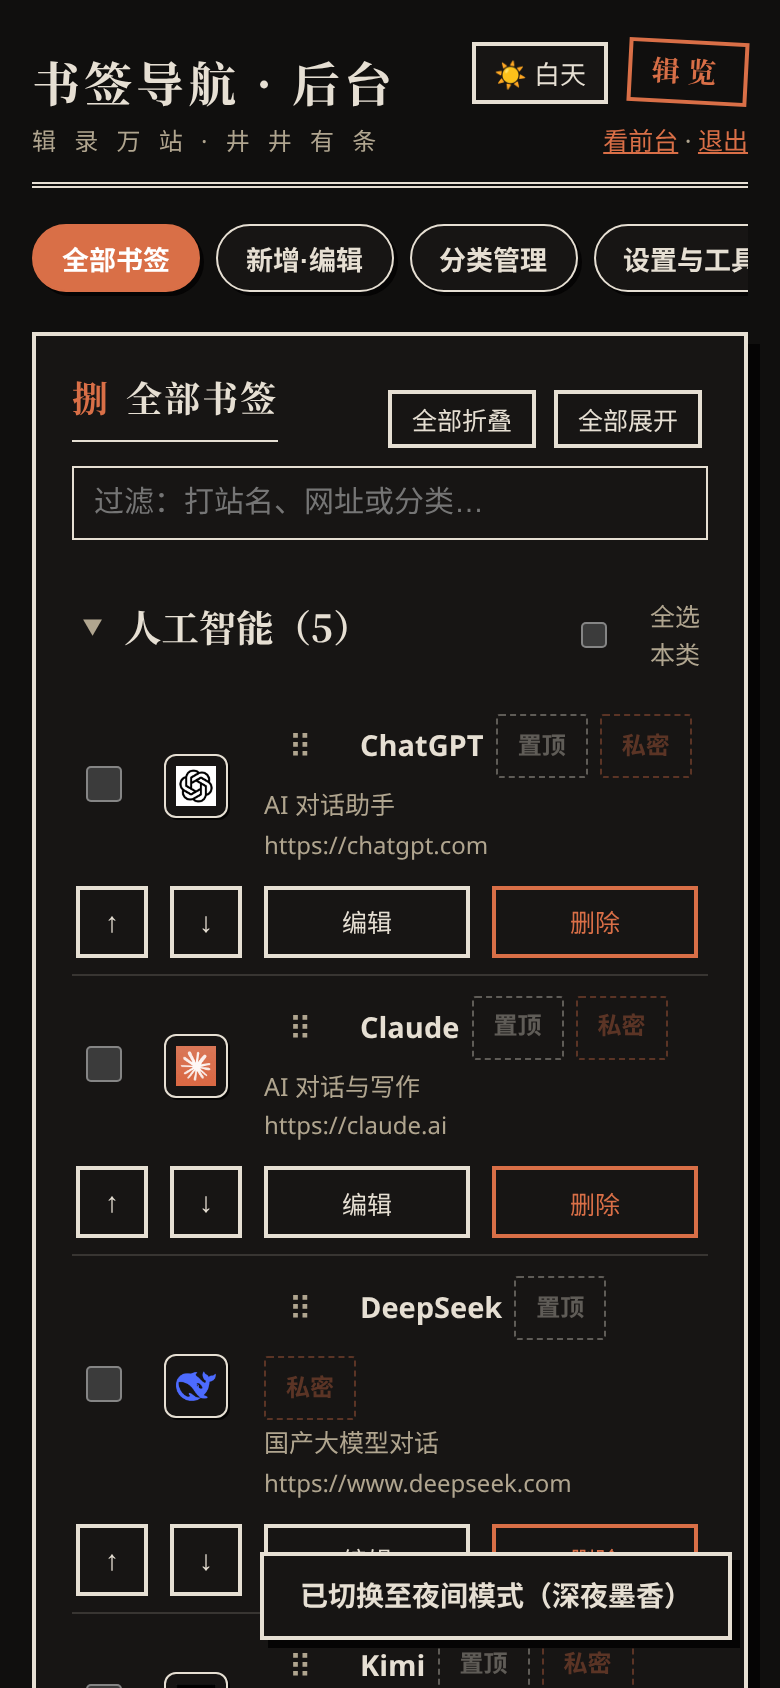
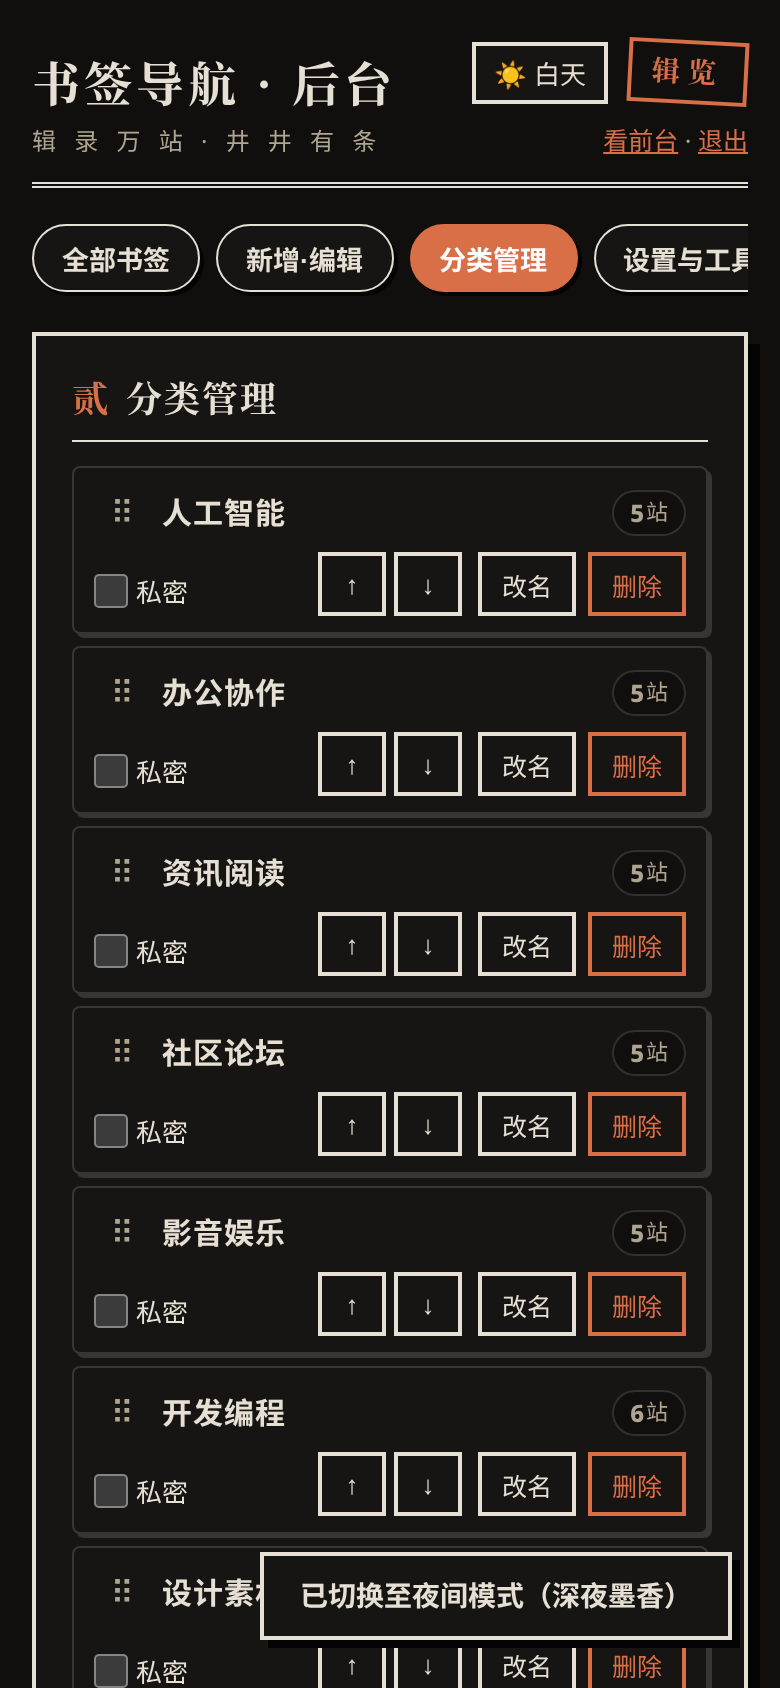
fix third review findings, refresh docs and mobile admin shots

diff --git a/public/admin-assets/admin.js b/public/admin-assets/admin.js
@@ -1094,6 +1094,8 @@ function renderSites() {
 
 // --- 批量操作浮动栏 ---
 function updateBulkBar(visibleSites = []) {
+  // 批量栏显隐会改变回顶按钮的避让高度，而避让只在滚动时重算，这里主动触发一次
+  requestAnimationFrame(() => window.dispatchEvent(new Event("scroll")));
   let bar = $("bulkBar");
   if (!bar) {
     bar = document.createElement("div");
@@ -1912,6 +1914,8 @@ $("linkCheckBtn").onclick = async () => {
       });
     }
   } catch (e) {
+    box.style.display = "none";
+    box.innerHTML = "";
     $("toolMsg").textContent = "巡检中断：" + e.message;
     toast("巡检中断：" + e.message, true);
     btn.disabled = false;
@@ -1923,7 +1927,13 @@ $("linkCheckBtn").onclick = async () => {
   bad.forEach(({ s, r }) => {
     if (r.status === "dead" && (r.code === 404 || r.code === 410)) {
       try {
-        recheck.push({ id: s.id, url: new URL(s.url).origin + "/", kind: "root" });
+        const u = new URL(s.url);
+        if (u.pathname === "/" && !u.search && !u.hash) {
+          // 书签本身就是站点根域，没有「页面没了站点还在」一说，原网址重测即可
+          recheck.push({ id: s.id, url: s.url, kind: "retry" });
+        } else {
+          recheck.push({ id: s.id, url: u.origin + "/", kind: "root" });
+        }
       } catch {}
     } else if ((r.status === "dead" && r.code === 0) || r.status === "error") {
       recheck.push({ id: s.id, url: s.url, kind: "retry" });
@@ -1995,6 +2005,23 @@ $("linkCheckBtn").onclick = async () => {
           toast("已删除");
           const row = box.querySelector(`[data-lc="${id}"]`);
           if (row) row.remove();
+          const rowsLeft = box.querySelectorAll(".lc-item");
+          const headSpan = box.querySelector(".lc-head span");
+          if (headSpan) {
+            if (!rowsLeft.length) {
+              headSpan.textContent = "全部处理完成";
+            } else {
+              let d = 0, e2 = 0;
+              rowsLeft.forEach((it) => {
+                const b = it.querySelector(".lc-badge");
+                if (!b) return;
+                if (b.classList.contains("dead")) d++;
+                else if (b.textContent.trim() === "未检") e2++;
+              });
+              const w = rowsLeft.length - d - e2;
+              headSpan.textContent = `失联 ${d} 条 · 异常 ${w} 条${e2 ? ` · 未检 ${e2} 条` : ""}`;
+            }
+          }
           load();
         } catch (e) {
           toast("删除失败：" + e.message, true);

diff --git a/functions/admin/index.js b/functions/admin/index.js
@@ -9,7 +9,7 @@ function getLoginHtml(siteTitle) {
 <html lang="zh-CN"><head><meta charset="UTF-8">
 <meta name="viewport" content="width=device-width, initial-scale=1.0, viewport-fit=cover">
 <title>${title} · 后台登录</title><link rel="icon" type="image/svg+xml" href="/favicon-2.svg"><link rel="icon" type="image/png" sizes="192x192" href="/icon-192-2.png">
-<link rel="stylesheet" href="/admin-assets/admin.css?v=20261019d">
+<link rel="stylesheet" href="/admin-assets/admin.css?v=20261019e">
 <style>
 body{display:flex;min-height:100vh;align-items:center;justify-content:center;padding:16px}
 form{background:var(--card);border:2px solid var(--ink);box-shadow:7px 7px 0 var(--card-shadow);padding:30px;width:340px;max-width:94vw}
@@ -50,7 +50,7 @@ function getAdminHtml(siteTitle) {
 <html lang="zh-CN"><head><meta charset="UTF-8">
 <meta name="viewport" content="width=device-width, initial-scale=1.0, viewport-fit=cover">
 <title>${title} · 后台管理</title><link rel="icon" type="image/svg+xml" href="/favicon-2.svg"><link rel="icon" type="image/png" sizes="192x192" href="/icon-192-2.png">
-<link rel="stylesheet" href="/admin-assets/admin.css?v=20261019d">
+<link rel="stylesheet" href="/admin-assets/admin.css?v=20261019e">
 <script>(function(){try{var t=localStorage.getItem('myNavTheme');if(!t&&window.matchMedia&&window.matchMedia('(prefers-color-scheme:dark)').matches)t='dark';if(t==='dark')document.documentElement.classList.add('dark-theme');}catch(e){}})();</script>
 </head>
 <body><div class="wrap">
@@ -194,7 +194,7 @@ function getAdminHtml(siteTitle) {
 
 <!-- 外置客户端逻辑 -->
 <script src="/assets/icon.js?v=20261019b" defer></script>
-<script src="/admin-assets/admin.js?v=20261019c" defer></script>
+<script src="/admin-assets/admin.js?v=20261019d" defer></script>
 </body></html>`;
 }
 

diff --git a/public/admin-assets/admin.css b/public/admin-assets/admin.css
@@ -316,6 +316,21 @@ html.dark-theme .icon-box { background: var(--card); }
   margin: 0;
 }
 
+@media (min-width: 561px) {
+  /* 桌面分类名截断：长名不再刺穿相邻列；改名表单在窄列内折行 */
+  .cattable td.cname { overflow: hidden; }
+  .cattable .cname-text {
+    display: inline-block;
+    max-width: calc(100% - 28px);
+    overflow: hidden;
+    text-overflow: ellipsis;
+    white-space: nowrap;
+    vertical-align: middle;
+  }
+  .cname-inline-wrap { flex-wrap: wrap; }
+  .cname-inline-input { flex: 1 1 100%; width: auto; min-width: 0; }
+}
+
 /* 响应式与移动端 Tab & 触控调序 (P15 & P16) */
 @media (max-width: 900px) {
   /* P15: 药丸 Tab 导航 */
@@ -996,3 +1011,10 @@ html.dark-theme .dup-warn {
 .lc-url { font-size: 12px; color: var(--muted); word-break: break-all; margin-top: 4px; }
 .lc-actions { display: flex; gap: 8px; margin-top: 8px; flex-wrap: wrap; }
 .lc-actions .mini { min-height: 34px; display: inline-flex; align-items: center; text-decoration: none; }
+
+@media (max-width: 380px) {
+  /* 极窄屏：分类卡操作钮略收，给中间的排序区让位 */
+  .cattable .cat-col-act { gap: 4px !important; }
+  .cattable .cat-col-act .mini { padding: 3px 6px !important; }
+  .cattable .cat-col-sort { gap: 4px !important; }
+}

diff --git a/README.md b/README.md
@@ -39,7 +39,7 @@
 
 ### 同步与备份
 
-- Floccus 双向同步（可选）：浏览器装了 Floccus 插件后，书签和本站互通——哪边加站，另一边出现；哪边删站，另一边跟着删。防误删有三道：来源标记（手工加的站首次同步前不受浏览器影响，合流后由置顶豁免与熔断保护）、删除墓碑、单次变动过多自动熔断
+- Floccus 双向同步（可选）：浏览器装了 Floccus 插件后，书签和本站互通——哪边加站，另一边出现；哪边删站，另一边跟着删。防误删有三道：来源标记（手工加的站首次同步前不受浏览器影响，合流后由置顶豁免与熔断保护）、删除墓碑、单次变动过多自动熔断。用之前先在后台设置中心配好一个 WebDAV（比如坚果云），同步文件就存在那里
 - WebDAV 备份：后台一键备份和恢复；备份主文件之外另有 4 个按周轮换的槽位，主文件损坏时从槽位恢复
 
 ### 浏览
@@ -48,6 +48,7 @@
 - 站内搜不到时不死胡同：可转 Bing / Google / GitHub 外搜（三个引擎可在后台设置里勾选开关），按回车走当前选中的引擎，默认 Bing
 - A–Z 字母索引，方向键按版面行列选卡：↑↓ 跨行移动（记得住你原来在哪一列），←→ 逐个流转
 - 二级分类，左侧索引滚动跟随高亮；手机上换成顶部横排
+- 卡片右上角可一键复制网址；支持 PWA，能把本站安装到桌面或手机主屏幕，像应用一样独立窗口打开
 - 夜间主题「沉墨」，报头按钮切换，记住选择；紧凑、舒适两种密度
 - 接口不可用时用本地快照渲染，页面不会白屏
 
@@ -58,7 +59,7 @@
 ```
 帮我部署这个项目：https://github.com/bingbinglab/rixin-nav
 1. 克隆仓库，读 README 的「快速开始」一节照着做；
-2. 用 wrangler 在我的 Cloudflare 账号里建 D1 数据库，执行 schema.sql 建表（想要演示数据再执行 schema-seed.sql），再建一个 KV 命名空间；
+2. 用 wrangler 在我的 Cloudflare 账号里建 D1 数据库，执行 schema.sql 建表（想要演示数据再执行 schema-seed.sql），再建一个 KV 命名空间，并把新建的 D1 数据库 ID 与 KV 命名空间 ID 回填进仓库根目录 wrangler.toml 的占位符处；
 3. 部署到 Cloudflare Pages：输出目录 public，绑定 D1 为 NAV_DB、KV 为 NAV_KV；
 4. 部署完把访问地址告诉我。
 需要登录授权时停下来喊我；ADMIN_PASSWORD 环境变量我自己在 Cloudflare 后台设，不要替我设。
@@ -72,11 +73,11 @@
 
 **1. 建数据库**
 
-在 D1 里新建一个数据库，打开它的 Console，把仓库根目录的 `schema.sql` 粘贴执行。想先看效果，再执行 `schema-seed.sql`，会灌入 50 个演示站点（就是在线演示里那一批）。然后在 KV 里新建一个命名空间。
+在 D1 里新建一个数据库，打开它的 Console，把仓库根目录的 `schema.sql` 粘贴执行。想先看效果，再执行 `schema-seed.sql`，会灌入 50 个演示站点（就是在线演示里那一批）。第一次部署建议先灌上，看完效果再去后台慢慢换成自己的；如果只建空表，前台会先显示内置的示例书签，等你在后台加上第一条自己的书签，就自动切换成你的数据。然后在 KV 里新建一个命名空间。
 
 **2. 部署**
 
-Pages 里选 Connect to Git 连接这个仓库：构建命令留空，输出目录填 `public`。部署完成后进项目 Settings，加两条绑定——D1 绑为 `NAV_DB`，KV 绑为 `NAV_KV`；再加一个环境变量 `ADMIN_PASSWORD`，值是你的后台口令，自己设。绑完重新部署一次生效。
+Pages 里选 Connect to Git 连接这个仓库：构建命令留空，输出目录填 `public`。部署完成后进项目 Settings，加两条绑定——D1 绑为 `NAV_DB`，KV 绑为 `NAV_KV`；再加一个环境变量 `ADMIN_PASSWORD`，值是你的后台口令，自己设。绑完要重新部署一次才生效——到项目的 Deployments 标签页，在最新一条部署右侧点 `...` 选 Retry deployment。
 
 环境变量只需要这一个。站名、AI 密钥、WebDAV 账号这些都进后台设置中心，不写进代码，也不会提交到 Git。
 
@@ -105,7 +106,7 @@ schema-seed.sql   50 条演示数据
 
 ## 可选组件
 
-Floccus 定时同步 Worker：每 12 小时自动对账一次，部署方法见 [workers/floccus-sync/README.md](workers/floccus-sync/README.md)。不用它的话，在后台手动点同步也一样。
+Floccus 定时同步 Worker：每 12 小时自动对账一次，部署方法见 [workers/floccus-sync/README.md](workers/floccus-sync/README.md)。不用它的话，在后台手动点同步也一样。部署它之前，先在 Pages 项目的环境变量里加一个 `ADMIN_API_TOKEN`（自己设一串长随机字符即可），Worker 靠它调用本站接口。
 
 演示站定时重置 Worker：如果你也对外开一个公开演示站，可以部署 [demo-reset-worker/worker.js](demo-reset-worker/worker.js)——一个带定时触发的 Worker，每天两次把演示数据清回种子状态，并把设置恢复成 KV 里 `factory_settings_v1` 键存的出厂快照。部署时给它绑演示站的 D1（绑定名 `DB`）和 KV（绑定名 `KV`）即可，在线演示站用的就是它。
 
